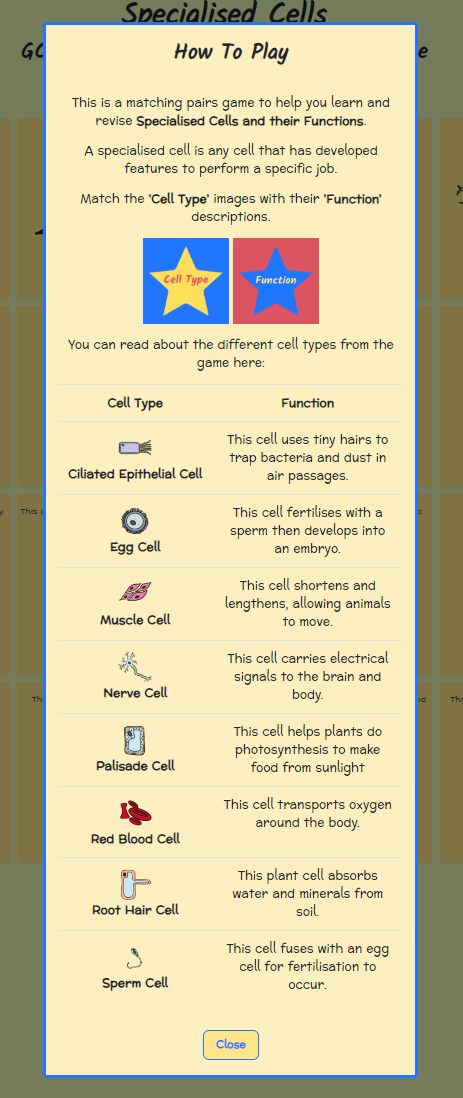
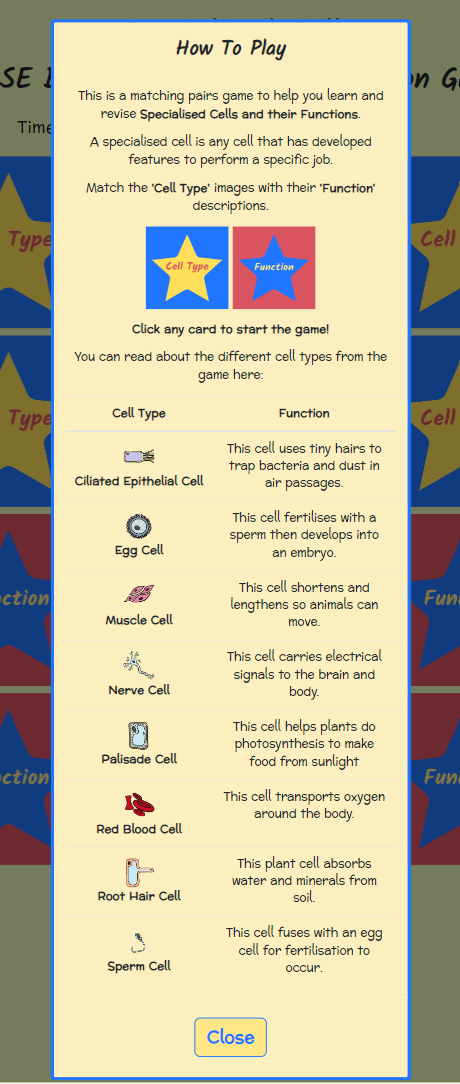
Add first 3 features to existing features

diff --git a/README.md b/README.md
@@ -90,7 +90,28 @@ Y / N indicates a Yes / No as to whether each opportunity was acheived and imple
 ## Structure
 
 ### Features
+
 ### Existing Features
+
+- **How To Play Button**
+
+    - When clicked, this button opens a modal with instructions on how start and play the game. 
+
+    ![screenshot](documentation/readme/feature-game-buttons.png)
+
+- **Reset Button**
+
+    - The mobile nav bar toggler, accessible on smaller mobile devices, collapses the navbar into a simple menu button that when clicked can open a list of the pages of the website. This allows for a cleaner UX design which takes up less space, but provides the user with the necessary navigation options. Clicking the icon opens the menu, and clicking again can close the menu.
+
+    ![screenshot](documentation/readme/feature-help-modal.png)
+
+- **Help Modal**
+
+    - This feature contains images to visually and clearly explain the card match pairs (important, because the user has the option of clicking two of the same 'type' of card for efficiency, but they need to know this will not create a match). It also contains a table displaying the card images and their matching descriptions to provide learning support for the user. The user can understand how to start the game (if they are unsure) by reading "Click any card to start the game!". The help modal can be opened at any time during the game to remind users of how to play.
+
+
+
+
 ### Future Features
 
 ---
